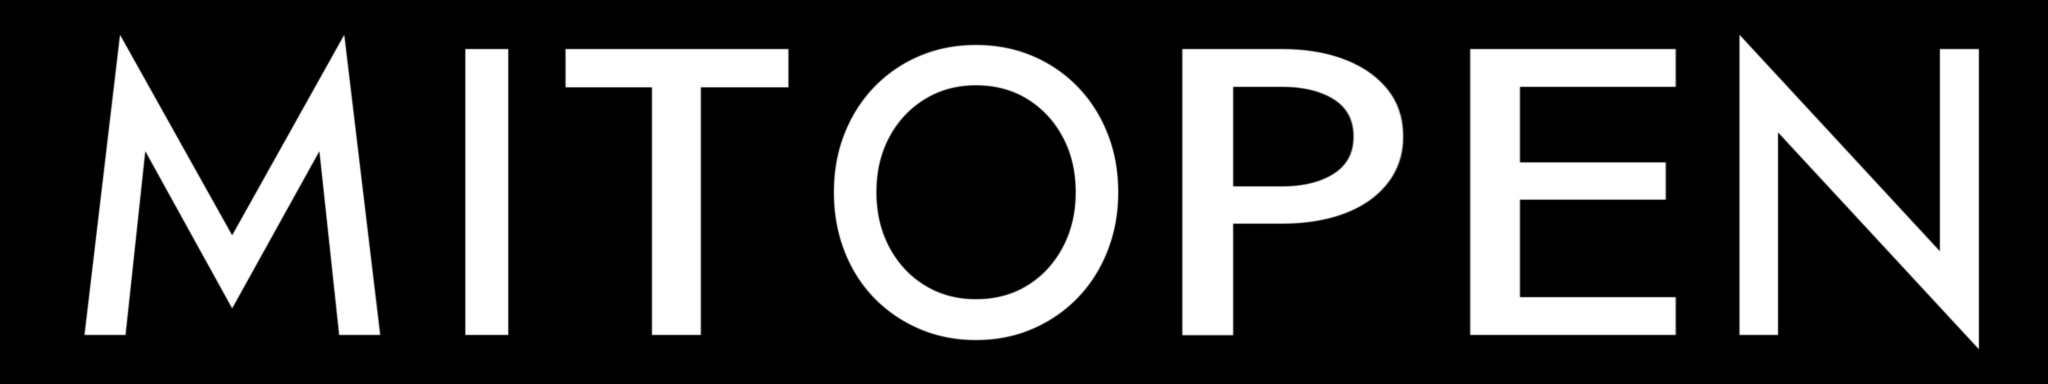
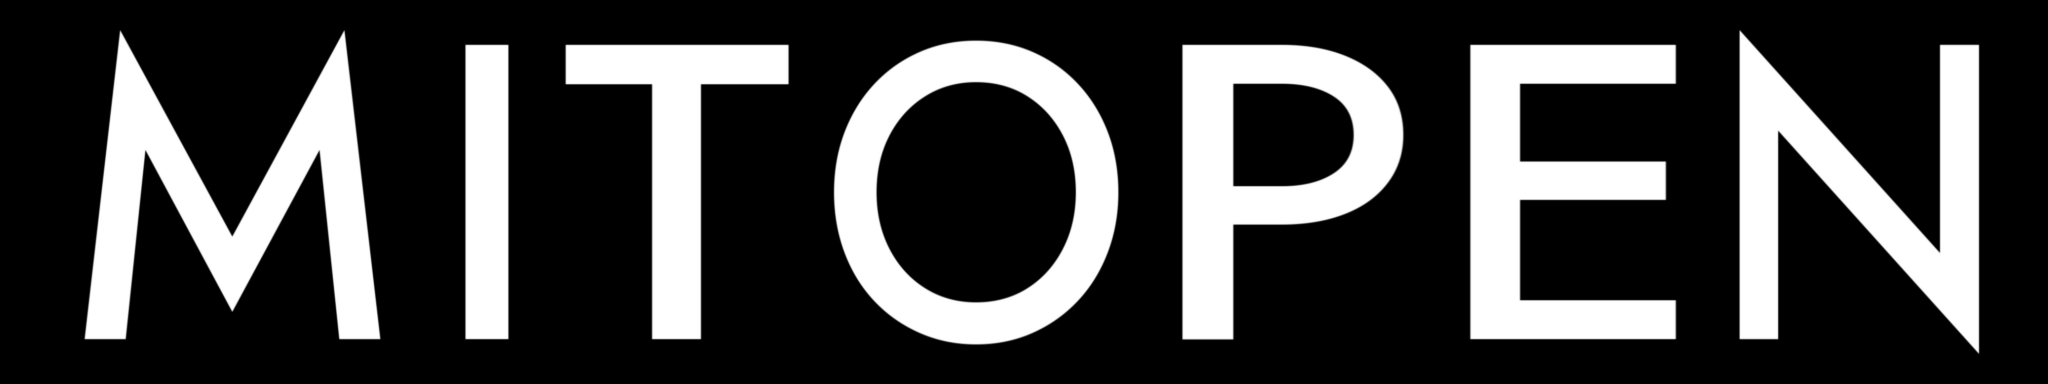
MICRO BOOST 10% and MITOPEN pages: builds in progress (snapshot)
Both series lanes are still working; this keeps the branch in step.

Claude-Session: https://claude.ai/code/session_014kxi7WWH4xGLi2AcFRd4q2

diff --git a/mitoderm-catalog/site/proto/scenes/micro-boost-10.js b/mitoderm-catalog/site/proto/scenes/micro-boost-10.js
@@ -9,9 +9,9 @@
 // The story (site/story3d.json; scratchpad spec pages/micro-boost-10/spec.md, BIOSPICULE line):
 //   S1 meet     a stream of spicules flows from the medallion on the box up, over and down into the tip of a 3 ml
 //               syringe and on into its barrel, where it gathers and fades
-//   S2 why      the box and the syringe smaller on the left; a gold skin line across the scene (behind the box): a flat
-//               glint slides along it and stops on it (a peel works on the surface), then the spicules pass through it
-//               and stand under it, short ones shallow, long ones deeper, thin gold channels left under the line
+//   S2 why      the box and the syringe smaller on the left; a gold skin line: a flat glint slides along it and stops
+//               on it (a peel works on the surface), then the spicules pass through it and stand under it, short ones
+//               shallow, long ones deeper, thin gold channels left under the line
 //   S3 inside   the syringe turns level, a drop swells at its nozzle and grows into the scene: inside it the spicules
 //               sort into two rows, short above, long below
 //   S4 feel     (no people: the owner's rule) a schematic cut of the epidermis rises, frosted, two layers, the short
@@ -211,9 +211,8 @@ export function createScene(THREE, { canvas, base, onLoad }) {
   const dropB = new THREE.Mesh(dropGeo, dropBack), dropF = new THREE.Mesh(dropGeo, dropFront);
   dropB.renderOrder = 20; dropF.renderOrder = 50; scene.add(dropB, dropF);
 
-  // ---- the line's graphics, flat to the camera in frame pixels (a plane: local x = px − 1200, y = 750 − py), by order:
-  // the skin before the box (S2's line runs across the whole scene, behind the box and the glass), the spicules and the
-  // gold over it: strokes ≥ 1.5 device px wide with a soft edge
+  // ---- the line's graphics, flat to the camera in frame pixels (a plane: local x = px − 1200, y = 750 − py), drawn
+  // over the box by order (they never pass behind it): strokes ≥ 1.5 device px wide with a soft edge
   const pxU = { value: 1 };   // device px per frame px
   const fx = new THREE.Group(); scene.add(fx);
   at(1200, 750, DIST, fx.position); fx.scale.setScalar(world(1, DIST));
@@ -253,7 +252,7 @@ export function createScene(THREE, { canvas, base, onLoad }) {
         gl_FragColor = vec4(c.rgb, c.a * uO * edgeFade(vF));
       }` });
   const skin = new THREE.Mesh(new THREE.PlaneGeometry(BOXF[2] - BOXF[0], BOXF[3] - BOXF[1]).translate((BOXF[0] + BOXF[2]) / 2 - 1200, 750 - (BOXF[1] + BOXF[3]) / 2, 0), skinMat);
-  skin.renderOrder = 0.5; skin.frustumCulled = false; fx.add(skin);   // before the box's faces (1, 2): it hides the line
+  skin.renderOrder = 10; skin.frustumCulled = false; fx.add(skin);
   // the kit's backlight: a soft glow of the line's green behind the box (S6–S7 and the offer card's picture), its
   // ellipse within the box's height (the card's picture, cut to what has alpha, keeps the box's size); no ring
   const GL = { uC: { value: hex3(0x24573f) }, uA: { value: 0 }, uR: { value: new THREE.Vector4(600, 812, 330, 360) } };
@@ -337,8 +336,8 @@ export function createScene(THREE, { canvas, base, onLoad }) {
   // 772) and the cut is high
   const BOX = [[520, 780, 1, 0.42], [330, 560, 1, 0.42], [330, 560, 0, 0.42], [330, 560, 0, 0.42], [360, 420, 1, 0.94], [600, 780, 1, 0.42]];
   const SYR = [[790, 883, 0, 624, 1], [480, 841, 0, 448, 1], [60, 750, 90, 448, 0], [60, 750, 90, 448, 0], [530, 604, 0, 336, 1], [530, 604, 0, 336, 0]];
-  // S2's line (across the whole scene box: its edges fade it) and S4–S5's cut: [x0, x1, edge y, height, top's depth px]
-  const LINE = [BOXF[0], BOXF[2], 1010], CUT3 = [278, 1138, 790, 230, 100], CUT4 = [700, 1220, 560, 150, 64];
+  // S2's line and S4–S5's cut: [x0, x1, edge y, height, top's depth px]
+  const LINE = [600, 1235, 1010], CUT3 = [278, 1138, 790, 230, 100], CUT4 = [700, 1220, 560, 150, 64];
   const DROP = [708, 750, 300];
 
   // the layouts of the spicules: [x, y, angle, length, opacity] of spicule i at time t (still: the cycle's last state)

diff --git a/mitoderm-catalog/site/proto/scenes/mitopen.js b/mitoderm-catalog/site/proto/scenes/mitopen.js
@@ -284,9 +284,9 @@ export function createScene(THREE, { canvas, base, onLoad, qa = null }) {
     bumpMap: vTex, bumpScale: 0.0006, alphaMap: vTex, transparent: true, depthWrite: false, polygonOffset: true, polygonOffsetFactor: -3, polygonOffsetUnits: -3 }), 'v');
   // glass: no transmission (on a transparent canvas it cannot see the page's smoke, and a phone pays a pass for it): its
   // opacity follows Fresnel and its own highlights (as the HAIR ampoules)
-  function glassMat(side, a0, aF, aS) {
+  function glassMat(side, a0, aF, aS, own = true) {   // own: the cartridge's dim room; else the studio (the drop: a light rim)
     const m = new THREE.MeshPhysicalMaterial({ color: 0x0b0b0c, roughness: 0.04, ior: 1.5, clearcoat: 1, clearcoatRoughness: 0.03, envMapIntensity: 1.6,
-      envMap: glassEnvRT.texture, transparent: true, depthWrite: false, side });
+      envMap: own ? glassEnvRT.texture : null, transparent: true, depthWrite: false, side });
     const k = [a0, aF, aS].map(v => v.toFixed(3));
     m.onBeforeCompile = sh => {
       sh.fragmentShader = sh.fragmentShader.replace('#include <opaque_fragment>', `#include <opaque_fragment>
@@ -298,10 +298,10 @@ export function createScene(THREE, { canvas, base, onLoad, qa = null }) {
         gl_FragColor.a = clamp(${k[0]} + ${k[1]} * F + dot(sp, vec3(0.2126, 0.7152, 0.0722)) * ${k[2]}, 0.0, 1.0) * opacity; }`);
     };
     m.customProgramCacheKey = () => 'glass' + k.join() + side;
-    glassMats.push(m); return m;
+    if (own) glassMats.push(m); return m;
   }
   const glassBack = glassMat(THREE.BackSide, 0.02, 0.3, 0.7), glassFront = glassMat(THREE.FrontSide, 0.03, 0.5, 1.0);
-  const stemMat = glassMat(THREE.DoubleSide, 0.02, 0.35, 0.6), dropMat = glassMat(THREE.FrontSide, 0.05, 0.6, 1.0);
+  const stemMat = glassMat(THREE.DoubleSide, 0.02, 0.35, 0.6), dropMat = glassMat(THREE.FrontSide, 0.02, 1.0, 0.35, false);
 
   // ---- the pen
   const pen = new THREE.Group(); scene.add(pen);
@@ -329,8 +329,8 @@ export function createScene(THREE, { canvas, base, onLoad, qa = null }) {
   }
   add(dot(135.5, 0, 5.5, 0.12), dotMat, 1);        // the dark dot above it (glass, flush; it does not light)
   add(dot(741, 0, 0.8, 0.1), markMat, 1);          // a tiny mark on the nose's collar, on the same meridian
-  // the print: x along the axis (u 432 → 286), y across (arc −13.7 … +13.7 px round its centre line α 7.35°)
-  const PU0 = 432, PU1 = 286, PS0 = -13.7, PS1 = 13.7, PAC = 7.35;
+  // the print: x along the axis (u 432 → 286), y across (arc −13.7 … +13.7 px round its centre line α 6.5°)
+  const PU0 = 432, PU1 = 286, PS0 = -13.7, PS1 = 13.7, PAC = 6.5;
   add(patch(PU1, PU0, 146, u => [PAC + deg(PS0 / R(u)), PAC + deg(PS1 / R(u))], 24, 0.15,
     (u, a) => [(PU0 - u) / (PU0 - PU1), 1 - (rad(a - PAC) * R(u) - PS0) / (PS1 - PS0)]), printMat, 20);
   // the engraved V: α −22…+18°, u 78…122

diff --git a/mitoderm-catalog/site/design/mitopen/make_textures.py b/mitoderm-catalog/site/design/mitopen/make_textures.py
@@ -16,7 +16,8 @@ front at angle α (+ toward the right flat) and radius R(u) shows at t = R·sin(
 its own plane (u_plane = u_front + 0.156·R).
 Letters (half-max of letter − local body, columns and rows; the T at 0.35 for its fainter bar), facade px: the print's
 centre line is the generatrix α = 7.35° (M 7.1°, N 7.6°), its cap height 20.4 px of arc (M 20.6, N 19.9), the stems
-3.0 px (I 3.0, T 3.1, N 2.9): Jost 450 (SIL OFL, a geometric sans like the print; the owner's artwork would replace it
+3.0 px (I 3.0, T 3.1, N 2.9); set at 6.5° and 21.0 px so that the rendered print, measured the same way on the scene's
+render in the packshot's pose, lands on these (the texture's own edge softening narrows it): Jost 450 (SIL OFL, a geometric sans like the print; the owner's artwork would replace it
 glyph for glyph), each glyph set to its measured width. The V: its two grooves traced as luminance minima row by row.
 usage: python3 -I make_textures.py <font dir with Jost[wght].ttf> <out dir: site/proto/img/mitopen-3d> <repo root>"""
 import os, sys
@@ -32,7 +33,7 @@ R = lambda u: float(np.interp(u, *zip(*RU)))
 EL, AZ = np.radians(9.0), 11.0
 
 
-def _plane(uf, alpha=7.35):   # a facade point's own plane: u_plane = u_front + sin(el)·R(u_plane)·cos(α − α_cam), solved
+def _plane(uf, alpha=6.5):   # a facade point's own plane: u_plane = u_front + sin(el)·R(u_plane)·cos(α − α_cam), solved
     u = uf
     for _ in range(4): u = uf + np.sin(EL) * R(u) * np.cos(np.radians(alpha - AZ))
     return u
@@ -41,7 +42,8 @@ def _plane(uf, alpha=7.35):   # a facade point's own plane: u_plane = u_front + 
 # ---- the print: decal window (plane u, arc px from the centre line) and the measured letters
 U0, U1 = 432.0, 286.0                 # x 0 … 2048 ↔ u 432 (beyond the M) … 286 (beyond the N)
 S0, S1 = -13.7, 13.7                  # y 0 … 384 ↔ arc −13.7 (the letter tops' side, −α) … +13.7
-ALPHA_C, CAP = 7.35, 20.4             # the centre line (degrees from the button's meridian) and the cap height (arc px)
+ALPHA_C, CAP = 6.5, 21.0             # the centre line (degrees from the button's meridian) and the cap height (arc px), set so the
+#                                       rendered print's half-max box lands on the measured one (overlay: +0.8 px across, −0.7 px tall at 7.35°, 20.4)
 PW, PH = 2048, 384
 LETTERS = [('M', 416.3, 395.5), ('I', 389.5, 386.5), ('T', 382.5, 366.9), ('O', 363.7, 343.7), ('P', 339.2, 323.7),
            ('E', 319.0, 304.6), ('N', 300.1, 283.3)]   # facade u of each letter's ink, from its M-side edge to its N-side edge
